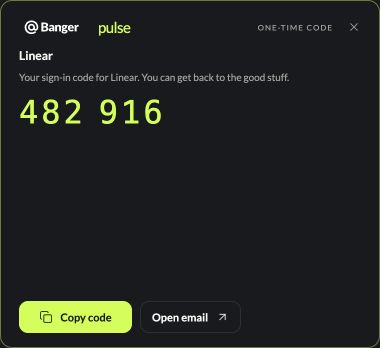
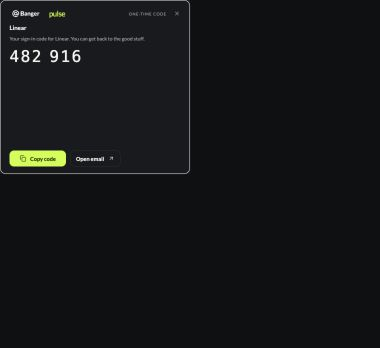
Resume Pulse monitoring after OAuth sign-in

diff --git a/apps/pulse/src/preview.js b/apps/pulse/src/preview.js
@@ -1,6 +1,13 @@
 // Browser-only fixtures for visual and interaction QA. Never included in a release build.
 const params = new URLSearchParams(location.search);
 const mode = params.get('preview');
+if (params.has('capture')) {
+  const width = mode === 'toast' ? 380 : 540;
+  const height = mode === 'toast' ? 348 : 700;
+  const style = document.createElement('style');
+  style.textContent = `html, body { width: ${width}px !important; height: ${height}px !important; min-height: 0 !important; overflow: hidden !important; } .toast { width: ${width}px; height: ${height}px; }`;
+  document.head.append(style);
+}
 const groups = [
   { product: { id: 'p1', name: 'Banger', brand: { logo_url: new URL('./assets/banger-avatar.png', import.meta.url).href } }, mailboxes: [{ id: 'm1', address: 'hello@banger.example', status: 'active' }, { id: 'm2', address: 'codes@banger.example', status: 'active' }, { id: 'm3', address: 'team@banger.example', status: 'active' }] },
   { product: { id: 'p2', name: 'Side projects' }, mailboxes: [{ id: 'm4', address: 'hello@orbit.example', status: 'active' }, { id: 'm5', address: 'updates@studio.example', status: 'active' }] },

diff --git a/apps/pulse/src/toast.css b/apps/pulse/src/toast.css
@@ -8,7 +8,7 @@ body {
 .toast {
   padding: 14px 18px;
   height: 100vh;
-  border: 1px solid var(--accent-border);
+  border: 1px solid var(--text);
   border-radius: 12px;
   display: flex;
   flex-direction: column;
@@ -101,8 +101,4 @@ body {
 .toast-brand img {
   width: 72px;
   filter: var(--logo-filter);
-}
-
-.toast {
-  border-color: color-mix(in srgb, var(--text) 28%, transparent);
 }

diff --git a/apps/pulse/src/styles.css b/apps/pulse/src/styles.css
@@ -735,7 +735,7 @@ nav .complete b {
 }
 
 .alert:first-child.has-code {
-  border-color: var(--accent-border);
+  border-color: var(--text);
 }
 
 .alert-meta {
@@ -1355,8 +1355,4 @@ body:has(#step-3:not([hidden])) main {
 
 .otp-code {
   color: var(--text);
-}
-
-.alert:first-child.has-code {
-  border-color: color-mix(in srgb, var(--text) 28%, transparent);
 }

diff --git a/apps/pulse/src-tauri/src/lib.rs b/apps/pulse/src-tauri/src/lib.rs
@@ -183,6 +183,7 @@ async fn sign_in(app: tauri::AppHandle, state: State<'_, Arc<AppState>>, api_url
     *state.auth.lock().await = Some(auth.clone());
     let _ = auth::save(&app, &auth);
     drop(config);
+    monitor::restart(app.clone(), state.inner().clone()).await;
     publish(&app, &state).await;
     Ok(snapshot(&state).await)
 }
